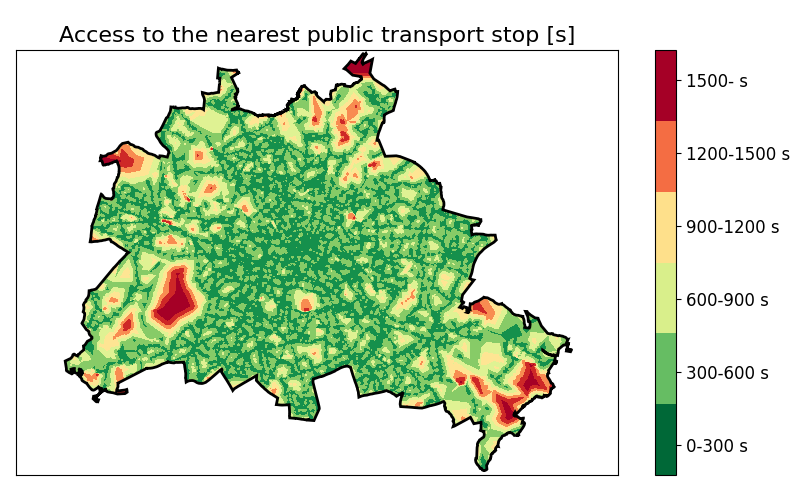
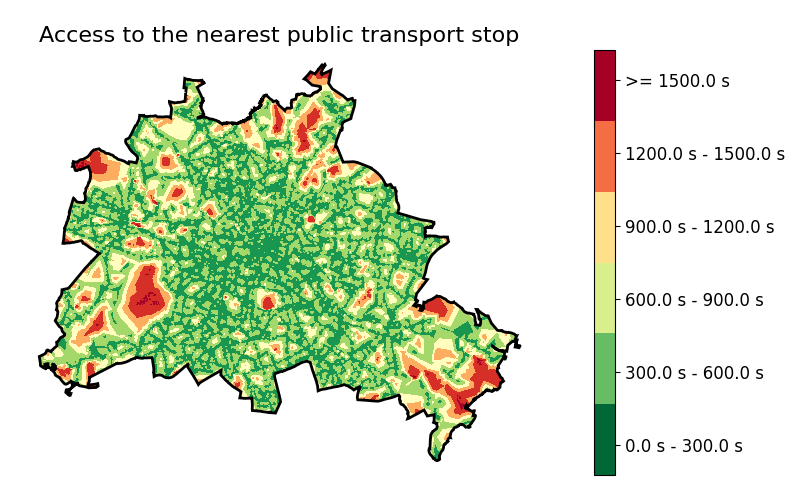
revisiting docs, debugging

diff --git a/tools/visualisation/plot_area.py b/tools/visualisation/plot_area.py
@@ -74,12 +74,12 @@ def cmap_discretize(cmap, N):
     return matplotlib.colors.LinearSegmentedColormap(cmap.name + "_%d"%N, cdict, 1024)
     
         
-def colorbar_index(ncolors, cmap, ticklabels):
+def colorbar_index(ax, ncolors, cmap, ticklabels):
     cmap = cmap_discretize(cmap, ncolors)
     mappable = matplotlib.cm.ScalarMappable(cmap=cmap)
     mappable.set_array([])
     mappable.set_clim(-0.5, ncolors+0.5)
-    colorbar = matplotlib.pyplot.colorbar(mappable)
+    colorbar = matplotlib.pyplot.colorbar(mappable, ax=ax)
     colorbar.set_ticks(numpy.linspace(0, ncolors, ncolors))
     colorbar.set_ticklabels(ticklabels)
     return colorbar    
@@ -102,12 +102,12 @@ def plot_area_contours(fig, ax, obj2pos, obj2val, colmap, norm, levels, report_a
         xs.append(obj2pos[g]._shape[0])
         ys.append(obj2pos[g]._shape[1])
         zs.append(obj2val[g])
-    xi = numpy.linspace(min(xs), max(xs), 10000) # !!!
-    yi = numpy.linspace(min(ys), max(ys), 10000) # !!!
+    xi = numpy.linspace(min(xs), max(xs), 1000) # !!!
+    yi = numpy.linspace(min(ys), max(ys), 1000) # !!!
     xi, yi = numpy.meshgrid(xi, yi)
     zi = scipy.interpolate.griddata((xs, ys), zs, (xi, yi), method='linear')
     #
-    cs1 = matplotlib.pyplot.contourf(xi, yi, zi, levels=levels, cmap=colmap, zorder=20, norm=norm, alpha=.5)
+    cs1 = matplotlib.pyplot.contourf(xi, yi, zi, levels=levels, cmap=colmap, zorder=20, norm=norm)#, alpha=.5)
 
 
 
@@ -150,7 +150,7 @@ def add_colorbar(fig, ax, colmap, sm, levels, logarithmic, measurelabel):
                 else:
                     l = str(levels[il-1]) + " - " + str(levels[il])
             labels.append(l)
-        cbar = colorbar_index(len(levels[1:]), colmap, labels)
+        cbar = colorbar_index(ax, len(levels[1:]), colmap, labels)
     else:
         if logarithmic:
             from matplotlib.ticker import LogLocator
@@ -305,7 +305,7 @@ def plot(mainBorder, innerBorders, network, water, obj2geom, obj2value, options,
         ax.add_patch(mainBorder.artist(lw=0, fc=options.invalidColor, ec="black", zorder=-1))
     # decorate
     if options.title is not None: 
-        matplotlib.pyplot.title(title.replace("\\n", "\n"), size=16)
+        matplotlib.pyplot.title(options.title.replace("\\n", "\n"), size=16)
     
     # -- get/set bounds
     # compute the boundary to show if not given

diff --git a/src/de/dlr/ivf/urmo/router/shapes/Layer.java b/src/de/dlr/ivf/urmo/router/shapes/Layer.java
@@ -47,6 +47,7 @@ public class Layer {
 		objects = new Vector<>();
 		visible = true;
 		envelope = _envelope;
+		envelope = null;
 	}
 
 

diff --git a/docs/mkdocs/TutorialNextPTHalt.md b/docs/mkdocs/TutorialNextPTHalt.md
@@ -33,7 +33,7 @@ Now, you should open a command line interface (shell / cmd.exe) and navigate to 
 UrMoAC comes with a Python script named [osm2db.py](./ImportScripts.md#importing-openstreetmap-into-the-database) for importing [OpenStreetMap](http://www.openstreetmap.org) data into a database. My call for importing the downloaded and extracted OSM-file into my local database is as following:
 
 ```console
-...\tools\osm>python osm2db.py localhost,urmoac,berlin,osm20230428,<USER>,<PASSWD> data\berlin-latest.osm
+...\tools\osm>python osm2db.py localhost,urmoac,berlin.osm20230428,<USER>,<PASSWD> data\berlin-latest.osm
 ```
 
 Please note that you need the PostGis extensions to be installed. If not, use:
@@ -42,15 +42,15 @@ Please note that you need the PostGis extensions to be installed. If not, use:
 CREATE EXTENSION postgis;
 ```
 
-As described in the section about [import scripts](ImportScripts.md), [osm2db.py](./ImportScripts.md#importing-openstreetmap-into-the-database) gets the definition of the database to generate as the first, and about the file to parse as the second parameter. The format of the first (see [import scripts](ImportScripts.md) ) is _&lt;HOST&gt;_,_&lt;DB&gt;_,_&lt;SCHEMA&gt;_,_&lt;PREFIX&gt;_,_&lt;USER&gt;_,_&lt;PASSWD&gt;_.
+As described in the section about [import scripts](ImportScripts.md), [osm2db.py](./ImportScripts.md#importing-openstreetmap-into-the-database) gets the definition of the database to generate as the first, and about the file to parse as the second parameter. The format of the first (see [import scripts](ImportScripts.md) ) is _&lt;HOST&gt;_,_&lt;DB&gt;_,_&lt;SCHEMA&gt;_._&lt;PREFIX&gt;_,_&lt;USER&gt;_,_&lt;PASSWD&gt;_.
 
-The tool builds the tables as given in [import scripts](ImportScripts.md) and reports about inserting nodes, ways, and relations. It takes some time, for Berlin, with 6.6Mio nodes, 1Mio ways, and 16k relations, my computer needed about five minutes.
+The tool builds the tables as described in [import scripts](ImportScripts.md) and reports about inserting nodes, ways, and relations. It takes some time, for Berlin, with 6.6Mio nodes, 1Mio ways, and 16k relations, my computer needed about five minutes.
 
 #### Step 2.2: Prepare the road network
 As described in [import scripts](ImportScripts.md), you may use the [osmdb_buildWays.py](./ImportScripts.md#building-the-road-network-from-openstreetmap-data) script to build your road network from a previously imported OSM data. In our case, the call is: 
 
 ```console
-...\tools\osm>python osmdb_buildWays.py localhost,urmoac,berlin,osm20230428,<USER>,<PASSWD>
+...\tools\osm>python osmdb_buildWays.py localhost,urmoac,berlin.osm20230428,<USER>,<PASSWD>
 ```
 
 You may note that the tool reports about unknown highway or railway tags. Usually, these are yet unbuilt or even erased roads. For importing the road network of Berlin (about 1.2Mio edges), the tool needed about seven minutes.
@@ -59,7 +59,7 @@ You may note that the tool reports about unknown highway or railway tags. Usuall
 Use the tool [osmdb_buildStructures.py](./ImportScripts.md#using-openstreetmap-data-to-build-tables-of-certain-structures) to import buildings by calling:
 
 ```console
-...\tools\osm>python osmdb_buildStructures.py localhost,urmoac,berlin,osm20230428,<USER>,<PASSWD> structure_defs/def_buildings.txt localhost,urmoac,berlin,osm20230428_buildings,<USER>,<PASSWD>
+...\tools\osm>python osmdb_buildStructures.py localhost,urmoac,berlin.osm20230428,<USER>,<PASSWD> structure_defs/def_buildings.txt localhost,urmoac,berlin,osm20230428_buildings,<USER>,<PASSWD>
 ```
 
 You will obtain a table named &ldquo;osm20230428_buildings&rdquo; that includes the buildings. The process took about 1 minute on my computer.
@@ -68,7 +68,7 @@ You will obtain a table named &ldquo;osm20230428_buildings&rdquo; that includes 
 Again, you may use [osmdb_buildStructures.py](./ImportScripts.md#using-openstreetmap-data-to-build-tables-of-certain-structures) to import public transport halts. The call is:
 
 ```console
-...\tools\osm>python osmdb_buildStructures.py localhost,urmoac,berlin,osm20230428,<USER>,<PASSWD> structure_defs/def_pt_halts.txt localhost,urmoac,berlin,osm20230428_pthalts,<USER>,<PASSWD>
+...\tools\osm>python osmdb_buildStructures.py localhost,urmoac,berlin.osm20230428,<USER>,<PASSWD> structure_defs/def_pt_halts.txt localhost,urmoac,berlin,osm20230428_pthalts,<USER>,<PASSWD>
 ```
 
 You will obtain a table named &ldquo;osm20230428_pthalts&rdquo; that includes the public transport halts.
@@ -77,7 +77,7 @@ You will obtain a table named &ldquo;osm20230428_pthalts&rdquo; that includes th
 For a nicer visualisation, we need Berlin's boundary. Again,  [osmdb_buildStructures.py](./ImportScripts.md#using-openstreetmap-data-to-build-tables-of-certain-structures) is used. The call is:
 
 ```console
-...\tools\osm>python osmdb_buildStructures.py localhost,urmoac,berlin,osm20230428,<USER>,<PASSWD> structure_defs/def_city_boundaries.txt localhost,urmoac,berlin,osm20230428_boundary,<USER>,<PASSWD>
+...\tools\osm>python osmdb_buildStructures.py localhost,urmoac,berlin.osm20230428,<USER>,<PASSWD> structure_defs/def_city_boundaries.txt localhost,urmoac,berlin,osm20230428_boundary,<USER>,<PASSWD>
 ```
 
 You will obtain a table named &ldquo;osm20230428_boundary&rdquo; that includes the city boundaries.

diff --git a/docs/mkdocs/ImportScripts.md b/docs/mkdocs/ImportScripts.md
@@ -23,7 +23,7 @@ The [osm2db.py](https://github.com/DLR-VF/UrMoAC/blob/master/tools/osm/osm2db.py
 
 Consequently, the call is:
 
-```python osm2db.py <HOST>,<DB>,<SCHEMA>,<PREFIX>,<USER>,<PASSWD> <FILE>```
+```python osm2db.py <HOST>,<DB>,<SCHEMA>.<PREFIX>,<USER>,<PASSWD> <FILE>```
 
 Where:
 
@@ -50,7 +50,7 @@ After inserting the data into the database using [osm2db.py](https://github.com/
 
 The call is:
 
-```python osmdb_buildWays.py <HOST>,<DB>,<SCHEMA>,<PREFIX>,<USER>,<PASSWD>```
+```python osmdb_buildWays.py <HOST>,<DB>,<SCHEMA>.<PREFIX>,<USER>,<PASSWD>```
 
 Where:
 
@@ -104,7 +104,7 @@ Where:
 * ***&lt;DEF_FILE&gt;***: path to the definition file to use;
 * ***&lt;OUTPUT_TABLE&gt;***: definition of the database table to generate.
 
-***&lt;INPUT_TABLES_PREFIX&gt;*** is defined as following: ***&lt;HOST&gt;***,***&lt;DB&gt;***,***&lt;SCHEMA&gt;***,***&lt;PREFIX&gt;***,***&lt;USER&gt;***,***&lt;PASSWD&gt;***
+***&lt;INPUT_TABLES_PREFIX&gt;*** is defined as following: ***&lt;HOST&gt;***,***&lt;DB&gt;***,***&lt;SCHEMA&gt;***.***&lt;PREFIX&gt;***,***&lt;USER&gt;***,***&lt;PASSWD&gt;***
 
 Where:
 
@@ -115,7 +115,7 @@ Where:
 * ***&lt;USER&gt;***: the name of the user who has access (can generate tables and write into them) the database;
 * ***&lt;PASSWD&gt;***: the password of the user.
 
-***&lt;OUTPUT_TABLE&gt;*** is defined as following:***&lt;HOST&gt;***,***&lt;DB&gt;***,***&lt;SCHEMA&gt;***,***&lt;TABLE&gt;***,***&lt;USER&gt;***,***&lt;PASSWD&gt;***
+***&lt;OUTPUT_TABLE&gt;*** is defined as following:***&lt;HOST&gt;***,***&lt;DB&gt;***,***&lt;SCHEMA&gt;***.***&lt;TABLE&gt;***,***&lt;USER&gt;***,***&lt;PASSWD&gt;***
 
 Where:
 
@@ -132,7 +132,7 @@ Where:
 If accessibilities for using public transport shall be computed, UrMoAC requires the representation of the public transport offer within the region in form of [GTFS](https://developers.google.com/transit/gtfs/) data. [GTFS](https://developers.google.com/transit/gtfs/) data comes as text files. For using it with UrMoAC, it has to be imported into the database. The script [importGTFS.py](https://github.com/DLR-VF/UrMoAC/blob/master/tools/importGTFS.py) does this.
 
 [importGTFS.py](https://github.com/DLR-VF/UrMoAC/blob/master/tools/importGTFS.py) is called like the other UrMoAC import scripts:
-```python importGTFS.py <INPUT_PATH> <HOST>,<DB>,<SCHEMA>,<PREFIX>,<USER>,<PASSWD>```
+```python importGTFS.py <INPUT_PATH> <HOST>,<DB>,<SCHEMA>.<PREFIX>,<USER>,<PASSWD>```
 Where:
 
 * ***&lt;INPUT_PATH&gt;***: the path to the folder the GTFS files are located within;

diff --git a/docs/mkdocs/OutputFormats.md b/docs/mkdocs/OutputFormats.md
@@ -13,7 +13,7 @@ UrMoAC generates the following types of results:
 Currently, writing to a [PostgreSQL](https://www.postgresql.org/) database or writing to a file is supported. It is respectively defined as follows:
 
 * when writing to a file, ___&lt;OUTPUT&gt;___ is defined as: ___&lt;FILENAME&gt;.csv___ (the extension must be __&ldquo;.csv&rdquo;__)
-* when generating a database table, ___&lt;OUTPUT&gt;___ is defined as: __jdbc:postgresql:_&lt;DB_HOST&gt;_,_&lt;SCHEMA.TABLE&gt;_,_&lt;USER&gt;_,_&lt;PASSWORD&gt;___
+* when generating a database table, ___&lt;OUTPUT&gt;___ is defined as: __jdbc:postgresql:_&lt;DB_HOST&gt;_,_&lt;SCHEMA&gt;_._&lt;TABLE&gt;_,_&lt;USER&gt;_,_&lt;PASSWORD&gt;___
 
 Some notes:
 

diff --git a/docs/mkdocs/ChangeLog.md b/docs/mkdocs/ChangeLog.md
@@ -17,11 +17,13 @@
     * carrier definition
     * within UrMoAC
     * within included Python-scripts (please note that all fields are now divided using a ',')
+* __references to database are now defined on the command line like: *&lt;HOST&gt;*,*&lt;DB&gt;*,*&lt;SCHEMA&gt;*.*&lt;TABLE&gt;*,*&lt;USER&gt;*,*&lt;PASSWD&gt;*__ - schema and table name are divided using a '.', all other fields using a ','
 
 ### Debugging and Improvements
 
 * patched several documentation issues
 * more verbose error handling
+* The script "plot_area.py" now supports disaggregated, aggregated, and filled contours visualisations
 
 
 

diff --git a/docs/mkdocs/IncludedScripts.md b/docs/mkdocs/IncludedScripts.md
@@ -56,4 +56,4 @@ These scripts are located in ***&lt;UrMoAC&gt;*/tools** and are sorted by topic:
 
 | Script | Purpose | Call |
 | ------ | ------- | ---- |
-| plot_area.py | Plots measures on a map. | |
+| plot_area.py | Plots measures on a map. | see [plot_area](./VisualisationTools.md#plot_area) |
